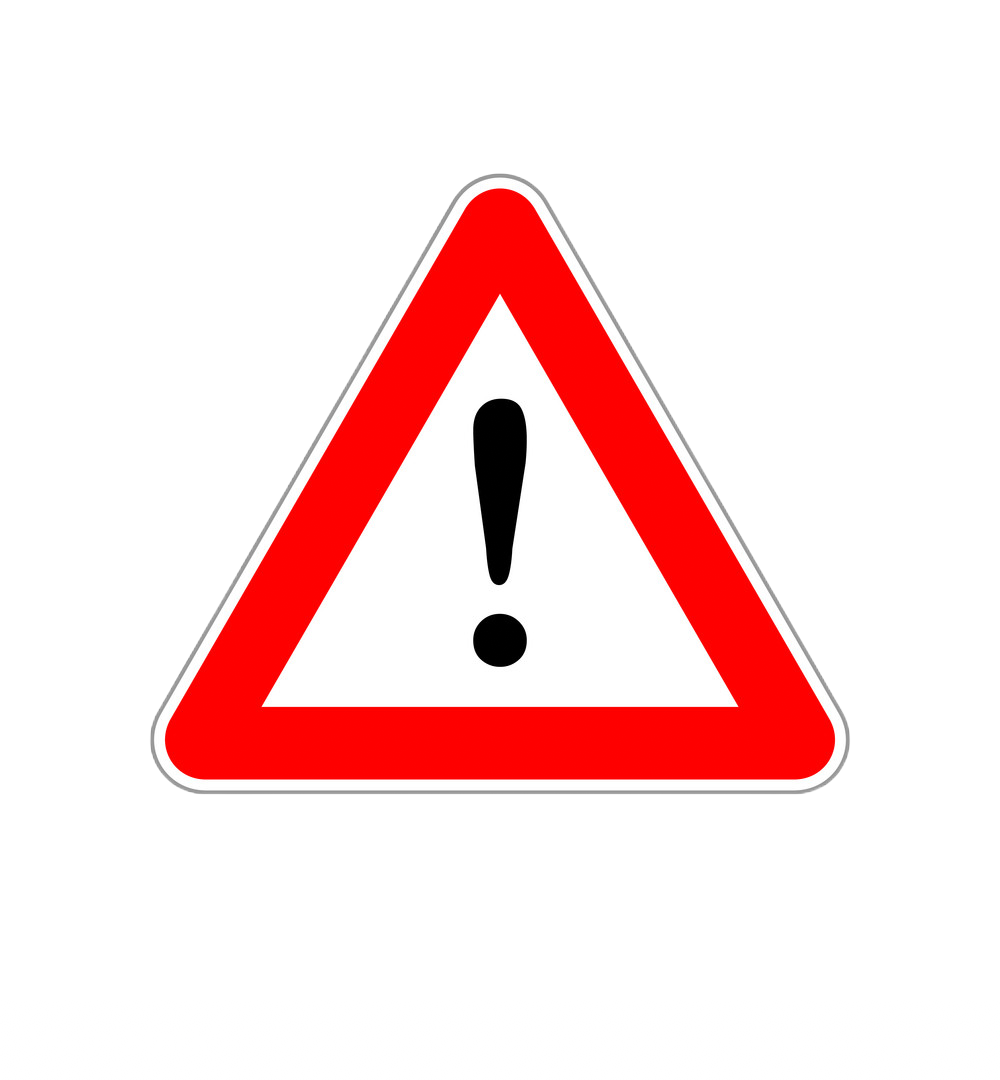
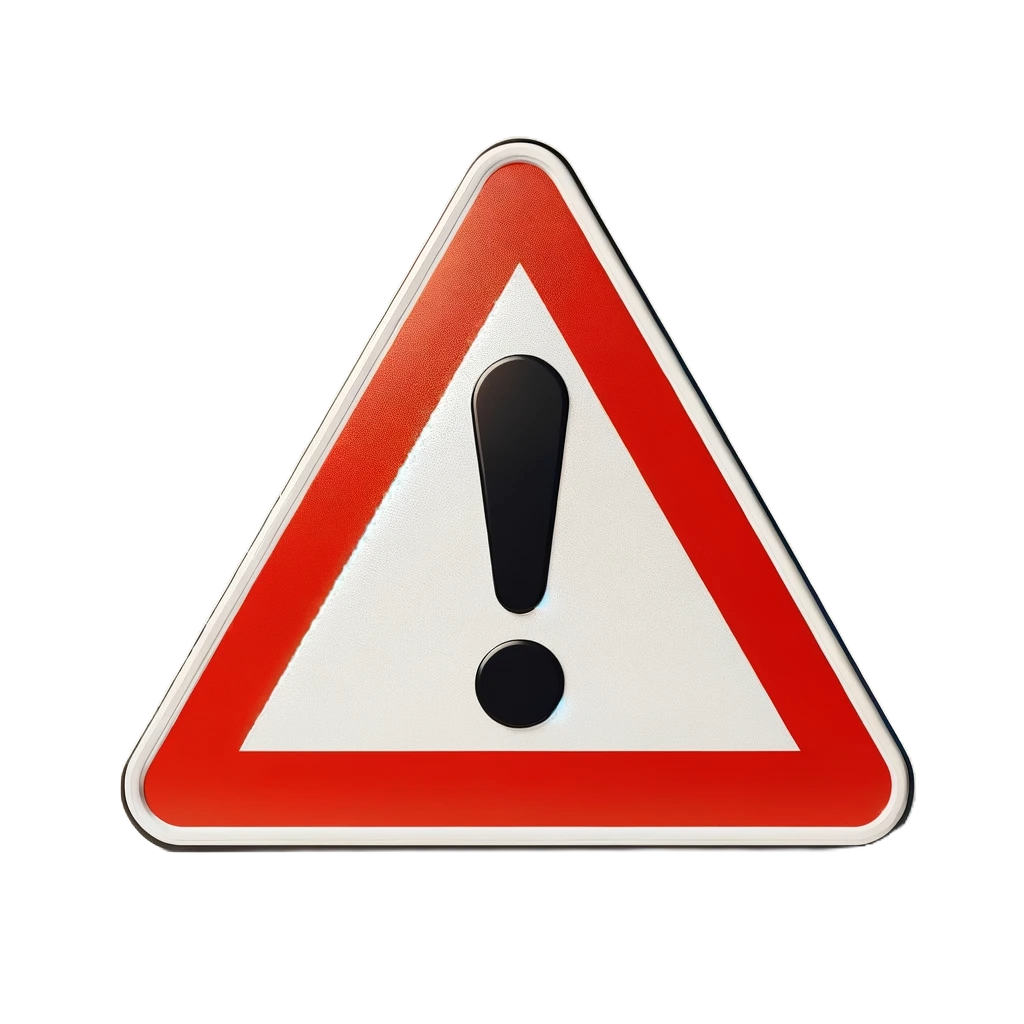
vid updates

diff --git a/scenes/Func/Func_1: Intro Functions/Func_1_2.py b/scenes/Func/Func_1: Intro Functions/Func_1_2.py
@@ -277,16 +277,20 @@ class Func_1_2_I_1_2_q(SophiaCursorScene):
         # Add title to the scene
         title = self.add_title(self.translate("Func_1_2.1I1.f-terms"))
 
-        term = MathTex("2","x","+3", color=c1t)
-        x_in = MathTex("x","\\\\\\Downarrow", color=RED).next_to(term[1], UP*0.6)
+        term = MathTex("2\\cdot","x","+3", color=c1t)
+        x_in = MathTex("x","\\\\\\Downarrow", color=RED).next_to(term[1], UP*.8)
         b = Brace(term, sharpness=1, color=c1t)
         y_out = MathTex("\\Downarrow\\\\","y", color=GREEN).next_to(b, DOWN*.6)
 
         x_0 = MathTex("=0", color=RED).next_to(x_in[0], RIGHT, buff=0.1)
         y_0 = MathTex("=3", color=GREEN).next_to(y_out[1], RIGHT, buff=0.1)
+        term_0 = MathTex("2\\cdot","0","+3", color=c1t)
+        term_0[1].set_color(RED)
 
         x_1 = MathTex("=1", color=RED).next_to(x_in[0], RIGHT, buff=0.1)
         y_1 = MathTex("=5", color=GREEN).next_to(y_out[1], RIGHT, buff=0.1)
+        term_1 = MathTex("2\\cdot","1","+3", color=c1t)
+        term_1[1].set_color(RED)
 
         x_question = MathTex("=3", color=RED).next_to(x_in[0], RIGHT, buff=0.1)
 
@@ -310,17 +314,25 @@ class Func_1_2_I_1_2_q(SophiaCursorScene):
 
             self.wait_until_bookmark("x_0")
             self.play(Write(x_0), run_time=1)
+            self.wait(1)
+            term_copy = term.copy()
+            self.play(TransformMatchingTex(term, term_0))
 
             self.wait_until_bookmark("y_0")
             self.play(Write(y_0), run_time=1)
 
             self.wait_until_bookmark("x_1")
+            self.play(TransformMatchingTex(term_0, term_copy), run_time=.4)
             self.play(ReplacementTransform(x_0, x_1), Unwrite(y_0), run_time=1)
+            self.wait(0.5)
+            self.play(TransformMatchingTex(term_copy, term_1))
 
             self.wait_until_bookmark("y_1")
+            term = term_copy.copy()
             self.play(Write(y_1), run_time=1)
 
             self.wait_until_bookmark("x_y_out")
+            self.play(TransformMatchingTex(term_1, term), run_time=.4)
             self.play(FadeOut(x_1), FadeOut(y_1), run_time=1)
 
             self.wait_until_bookmark("x_question")
@@ -340,12 +352,14 @@ class Func_1_2_I_1_2_a(SophiaCursorScene):
         # Add title to the scene
         title = self.add_title(self.translate("Func_1_2.1I1.f-terms"))
 
-        term = MathTex("2","x","+3", color=c1t)
-        x_in = MathTex("x","\\\\\\Downarrow", color=RED).next_to(term[1], UP*0.6)
+        term = MathTex("2\\cdot","x","+3", color=c1t)
+        x_in = MathTex("x","\\\\\\Downarrow", color=RED).next_to(term[1], UP*0.8)
         b = Brace(term, sharpness=1, color=c1t)
         y_out = MathTex("\\Downarrow\\\\","y", color=GREEN).next_to(b, DOWN*.6)
         x_question = MathTex("=3", color=RED).next_to(x_in[0], RIGHT, buff=0.1)
         y_question = MathTex("=9", color=GREEN).next_to(y_out[1], RIGHT, buff=0.1)
+        term_question = MathTex("2\\cdot","3","+3", color=c1t)
+        term_question[1].set_color(RED)
 
         self.add(term, x_in, b, y_out, x_question)
 
@@ -354,6 +368,9 @@ class Func_1_2_I_1_2_a(SophiaCursorScene):
         with self.voiceover(
                 text=self.translate("General.incorrect_1")+self.translate("Func_1_2.1I12a.voiceover")
         ) as tracker:
+            
+            self.wait_until_bookmark("term_q")
+            self.play(TransformMatchingTex(term, term_question))
             
             self.wait_until_bookmark("y_q")
             self.play(Write(y_question), run_time=1)
@@ -372,12 +389,14 @@ class Func_1_2_I_1_2_b(SophiaCursorScene):
         # Add title to the scene
         title = self.add_title(self.translate("Func_1_2.1I1.f-terms"))
 
-        term = MathTex("2","x","+3", color=c1t)
-        x_in = MathTex("x","\\\\\\Downarrow", color=RED).next_to(term[1], UP*0.6)
+        term = MathTex("2\\cdot","x","+3", color=c1t)
+        x_in = MathTex("x","\\\\\\Downarrow", color=RED).next_to(term[1], UP*0.8)
         b = Brace(term, sharpness=1, color=c1t)
         y_out = MathTex("\\Downarrow\\\\","y", color=GREEN).next_to(b, DOWN*.6)
         x_question = MathTex("=3", color=RED).next_to(x_in[0], RIGHT, buff=0.1)
         y_question = MathTex("=9", color=GREEN).next_to(y_out[1], RIGHT, buff=0.1)
+        term_question = MathTex("2\\cdot","3","+3", color=c1t)
+        term_question[1].set_color(RED)
 
         self.add(term, x_in, b, y_out, x_question)
 
@@ -386,6 +405,9 @@ class Func_1_2_I_1_2_b(SophiaCursorScene):
         with self.voiceover(
                 text=self.translate("General.correct_1")+self.translate("Func_1_2.1I12a.voiceover")
         ) as tracker:
+            
+            self.wait_until_bookmark("term_q")
+            self.play(TransformMatchingTex(term, term_question))
             
             self.wait_until_bookmark("y_q")
             self.play(Write(y_question), run_time=1)
@@ -404,12 +426,14 @@ class Func_1_2_I_1_2_c(SophiaCursorScene):
         # Add title to the scene
         title = self.add_title(self.translate("Func_1_2.1I1.f-terms"))
 
-        term = MathTex("2","x","+3", color=c1t)
-        x_in = MathTex("x","\\\\\\Downarrow", color=RED).next_to(term[1], UP*0.6)
+        term = MathTex("2\\cdot","x","+3", color=c1t)
+        x_in = MathTex("x","\\\\\\Downarrow", color=RED).next_to(term[1], UP*0.8)
         b = Brace(term, sharpness=1, color=c1t)
         y_out = MathTex("\\Downarrow\\\\","y", color=GREEN).next_to(b, DOWN*.6)
         x_question = MathTex("=3", color=RED).next_to(x_in[0], RIGHT, buff=0.1)
         y_question = MathTex("=9", color=GREEN).next_to(y_out[1], RIGHT, buff=0.1)
+        term_question = MathTex("2\\cdot","3","+3", color=c1t)
+        term_question[1].set_color(RED)
 
         self.add(term, x_in, b, y_out, x_question)
 
@@ -418,6 +442,9 @@ class Func_1_2_I_1_2_c(SophiaCursorScene):
         with self.voiceover(
                 text=self.translate("General.incorrect_1")+self.translate("Func_1_2.1I12a.voiceover")
         ) as tracker:
+            
+            self.wait_until_bookmark("term_q")
+            self.play(TransformMatchingTex(term, term_question))
             
             self.wait_until_bookmark("y_q")
             self.play(Write(y_question), run_time=1)
@@ -436,12 +463,14 @@ class Func_1_2_I_1_2_d(SophiaCursorScene):
         # Add title to the scene
         title = self.add_title(self.translate("Func_1_2.1I1.f-terms"))
 
-        term = MathTex("2","x","+3", color=c1t)
-        x_in = MathTex("x","\\\\\\Downarrow", color=RED).next_to(term[1], UP*0.6)
+        term = MathTex("2\\cdot","x","+3", color=c1t)
+        x_in = MathTex("x","\\\\\\Downarrow", color=RED).next_to(term[1], UP*0.8)
         b = Brace(term, sharpness=1, color=c1t)
         y_out = MathTex("\\Downarrow\\\\","y", color=GREEN).next_to(b, DOWN*.6)
         x_question = MathTex("=3", color=RED).next_to(x_in[0], RIGHT, buff=0.1)
         y_question = MathTex("=9", color=GREEN).next_to(y_out[1], RIGHT, buff=0.1)
+        term_question = MathTex("2\\cdot","3","+3", color=c1t)
+        term_question[1].set_color(RED)
 
         self.add(term, x_in, b, y_out, x_question)
 
@@ -450,6 +479,9 @@ class Func_1_2_I_1_2_d(SophiaCursorScene):
         with self.voiceover(
                 text=self.translate("General.incorrect_1")+self.translate("Func_1_2.1I12a.voiceover")
         ) as tracker:
+            
+            self.wait_until_bookmark("term_q")
+            self.play(TransformMatchingTex(term, term_question))
             
             self.wait_until_bookmark("y_q")
             self.play(Write(y_question), run_time=1)
@@ -472,6 +504,14 @@ class Func_1_2_I_1_4(SophiaCursorScene):
 
         term = MathTex("","","","2x+3", color=c1t)
         func_term = MathTex("f(","x",")=","2x+3", color=c1t)
+        func_term_x4 = MathTex("f(","4",")=","11", color=c1t)
+        func_term_x4[1].set_color(RED)
+        func_term_x4[-1].set_color(GREEN)
+        func_term_x5 = MathTex("f(","5",")=","13", color=c1t)
+        func_term_x5[1].set_color(RED)
+        func_term_x5[-1].set_color(GREEN)
+
+
         box = SurroundingRectangle(func_term, color=PURE_BLUE, buff=0.3, corner_radius=0.2)
 
         x4 = VGroup(MathTex("x=4", color=RED), MathTex("y=11", color=GREEN, opacity=0).add_updater(lambda m: m.set_opacity(0 if m.get_top()[1]>box.get_bottom()[1] else 1))).arrange(DOWN, buff=0.2, aligned_edge=LEFT).next_to(box, UP, buff=.4)
@@ -495,14 +535,15 @@ class Func_1_2_I_1_4(SophiaCursorScene):
             self.add(x4[0])
 
             self.wait_until_bookmark("move_x4")
-            self.play(x4.animate.shift(DOWN*3), run_time=4)
+            ft_copy = func_term.copy()
+            self.play(x4.animate.shift(DOWN*3), TransformMatchingTex(func_term, func_term_x4), run_time=4)
 
             self.wait_until_bookmark("x5")
             self.add(x5[0])
-            self.play(FadeOut(x4), run_time=1)
+            self.play(FadeOut(x4), TransformMatchingTex(func_term_x4, ft_copy), run_time=1)
 
             self.wait_until_bookmark("move_x5")
-            self.play(x5.animate.shift(DOWN*3), run_time=4)
+            self.play(x5.animate.shift(DOWN*3), TransformMatchingTex(ft_copy, func_term_x5), run_time=4)
 
         # Wait for 4 seconds at the end of animation
         self.wait(4)

diff --git a/scenes/Func/Func_1: Intro Functions/Func_1_1.py b/scenes/Func/Func_1: Intro Functions/Func_1_1.py
@@ -360,7 +360,7 @@ class Func_1_1_I_2(SophiaCursorScene):
 
         # Create a notepad with texts
         cords = self.add_cords([6, 24, 3], [5, 25, 5], x_ticks=[6, 12, 18, 24], y_ticks=[10, 15, 20, 25],
-                               axisLabelX=self.translate("Func_1_1.1I1a.main.x-axis"), axisLabelY=self.translate("Func_1_1.1I1a.main.y-axis")).shift(DOWN*1.4)
+                               axisLabelX=self.translate("Func_1_1.1I1a.main.x-axis"), axisLabelY=self.translate("Func_1_1.1I1a.main.y-axis")).shift(DOWN*.6)
         plane = cords[0]
 
         # Add title to the scene
@@ -378,6 +378,10 @@ class Func_1_1_I_2(SophiaCursorScene):
         cursor.add_updater(lambda m, dt: self.bring_to_front(cursor))
 
         xToY = MathTex("x", "\,\,\,\\rightarrow\,\,\,", "y", color=c1t).next_to(cords, DOWN, buff=0.5)
+
+        attention = ImageMobject(assets_folder / "img" / "warningsign.png").shift([-5,-2.8,0])
+        attention =  attention.scale(2.6/attention.get_height())
+        self.add(attention)
 
         # Action Sequence
         with self.voiceover(
@@ -418,12 +422,15 @@ class Func_1_1_I_2(SophiaCursorScene):
             self.play(Write(l), run_time=3)
 
             self.wait_until_bookmark("Memorize")
-            self.wait(1)
+            self.add_shift_sound(0.5)
+            self.play(attention.animate.shift(RIGHT*5), run_time=0.5)
+            self.wait(0.5)
             cursor.idle=False
 
             self.wait_until_bookmark("aY")
             x,y,_ = xToY[2].get_center()+0.4*DOWN
-            self.play(CursorMoveTo(cursor,x,y), run_time=0.5)
+            self.add_shift_sound(0.5)
+            self.play(CursorMoveTo(cursor,x,y), attention.animate.shift(RIGHT*5), run_time=0.5)
 
             self.wait_until_bookmark("aX")
             x,y,_ = xToY[0].get_center()+0.4*DOWN
@@ -1566,6 +1573,11 @@ class ValueTableSolutionScene(SophiaCursorScene, metaclass=ABCMeta):
         if self.idx_selected == self.correcty:
             first_bit = self.evaluate_string(self.translate("Func_1_1.ValueTableSolutionScene.first_bit_correct"))
 
+        col_highlights = [SurroundingRectangle(col, color=PURE_BLUE, corner_radius=.1, buff=.2) for col in tab.get_columns()]
+
+        x_0, y_0, _ = plane.c2p(0,0)
+        lines = VGroup(DashedLine(LEFT, RIGHT, color=GREY).add_updater(lambda m: m.put_start_and_end_on([x_0,cursor.get_y(),-1], cursor.get_center())), DashedLine(LEFT, RIGHT, color=GREY).add_updater(lambda m: m.put_start_and_end_on([cursor.get_x(), y_0,-1], cursor.get_center())))
+
         self.first_bit = first_bit
         # Action Sequence
         with self.voiceover(
@@ -1577,6 +1589,7 @@ class ValueTableSolutionScene(SophiaCursorScene, metaclass=ABCMeta):
 
             # Highlight first Text
             self.wait_until_bookmark("Func")
+            self.add_pencil_sound(1.5)
             self.play(Write(funcs[self.idx_selected]))
             self.add(cursor)
 
@@ -1589,44 +1602,24 @@ class ValueTableSolutionScene(SophiaCursorScene, metaclass=ABCMeta):
             self.wait_until_bookmark("yaxis")
             self.play(CursorMarkAxis(cursor, plane, 'y'), run_time=0.5)
 
-            # Create first Value
             self.wait_until_bookmark("val1")
+            self.add(lines)
             x,y,_ = plane.c2p(self.xvals[0], self.yvals[self.correcty][0])
-            self.play(CursorMoveResize(cursor, x, y, 0.2, 0.2))
-            c2 = cursor.copy()
-            self.add(c2)
+            self.play(CursorMoveResize(cursor, x, y), run_time=0.3)
+            self.play(Write(col_highlights[1]))
+            self.add(Circle(color=RED, radius=0.1).move_to(cursor))
 
-            # Create second Value
-            self.wait_until_bookmark("val2")
-            x,y,_ = plane.c2p(self.xvals[1], self.yvals[self.correcty][1])
-            self.play(CursorMoveTo(cursor, x, y))
-            c3 = cursor.copy()
-            self.add(c3)
-
-            # Create third Value
-            self.wait_until_bookmark("val3")
-            x,y,_ = plane.c2p(self.xvals[2], self.yvals[self.correcty][2])
-            self.play(CursorMoveTo(cursor, x, y))
-            c4 = cursor.copy()
-            self.add(c4)
-
-            # Create fourth Value
-            self.wait_until_bookmark("val4")
-            x,y,_ = plane.c2p(self.xvals[3], self.yvals[self.correcty][3])
-            self.play(CursorMoveTo(cursor, x, y))
-            c5 = cursor.copy()
-            self.add(c5)
-
-            # Create fifth Value
-            self.wait_until_bookmark("val5")
-            x,y,_ = plane.c2p(self.xvals[4], self.yvals[self.correcty][4])
-            self.play(CursorMoveTo(cursor, x, y))
-            c6 = cursor.copy()
-            self.add(c6)
+            for val_idx in range(1,5):
+                # Highlight first Value
+                self.wait_until_bookmark("val"+str(val_idx+1))
+                x,y,_ = plane.c2p(self.xvals[val_idx], self.yvals[self.correcty][val_idx])
+                self.play(CursorMoveTo(cursor, x, y), ReplacementTransform(col_highlights[val_idx], col_highlights[val_idx+1]),  run_time=0.3)
+                self.add(Circle(color=RED, radius=0.1).move_to(cursor))
+            cursor.idle=True
 
             # Create the function
             self.wait_until_bookmark("TrueFunc")
-            self.play(Write(func_plotted_correct), run_time=3)
+            self.play(Unwrite(col_highlights[-1]))
 
         # Wait for 4 seconds at the end of animation
         self.wait(4)
@@ -1766,7 +1759,7 @@ class Func_1_1_P_2_c(ValueTableSolutionScene):
     def construct(self):
 
         self.correcty = 2
-        self.idx_selected = 1
+        self.idx_selected = 2
         self.xvals = [1,2,3,4,5]
         self.yvals = [[10, 20, 30, 40, 20], [30, 10, 40, 20, 30], [20, 30, 10, 40, 30]]
         self.cords = self.add_cords([1,5,1], [0, 40, 10], x_ticks=[1,3,5], x_labels=[1,3,5], y_ticks=[10,20,30,40], y_labels=[10,20,30,40], height=2).shift(0.4*DOWN)

diff --git a/scenes/Func/Func_3: Rational Functions I/Func_3_1.py b/scenes/Func/Func_3: Rational Functions I/Func_3_1.py
@@ -266,7 +266,7 @@ class Func_3_1_I_3_a(SophiaCursorScene):
 
         self.add_title(self.translate("Func_3_1.I3.a.title"))
 
-        warningsign = ImageMobject(assets_folder / "img" / "warningsign.png").move_to([-5,1,0])
+        warningsign = ImageMobject(assets_folder / "img" / "warningsign_legacy.png").move_to([-5,1,0])
         warningsign = warningsign.scale(3.8/warningsign.get_width())
 
         # Create a notepad with texts
@@ -339,7 +339,7 @@ class Func_3_1_I_3_b(SophiaCursorScene):
 
         self.add_title(self.translate("Func_3_1.I3.a.title"))
 
-        warningsign = ImageMobject(assets_folder / "img" / "warningsign.png").move_to([-5,1,0])
+        warningsign = ImageMobject(assets_folder / "img" / "warningsign_legacy.png").move_to([-5,1,0])
         warningsign = warningsign.scale(3.8/warningsign.get_width())
 
         cursor = AltCursor(stroke_width=0.0, idle=True)
@@ -408,7 +408,7 @@ class Func_3_1_I_3_c(SophiaCursorScene):
 
         self.add_title(self.translate("Func_3_1.I3.a.title"))
 
-        warningsign = ImageMobject(assets_folder / "img" / "warningsign.png").move_to([-5,1,0])
+        warningsign = ImageMobject(assets_folder / "img" / "warningsign_legacy.png").move_to([-5,1,0])
         warningsign = warningsign.scale(3.8/warningsign.get_width())
 
         cursor = AltCursor(stroke_width=0.0, idle=True)
@@ -473,7 +473,7 @@ class Func_3_1_I_3_d(SophiaCursorScene):
 
         self.add_title(self.translate("Func_3_1.I3.a.title"))
 
-        warningsign = ImageMobject(assets_folder / "img" / "warningsign.png").move_to([-5,1,0])
+        warningsign = ImageMobject(assets_folder / "img" / "warningsign_legacy.png").move_to([-5,1,0])
         warningsign = warningsign.scale(3.8/warningsign.get_width())
 
         cursor = AltCursor(stroke_width=0.0, idle=True)
